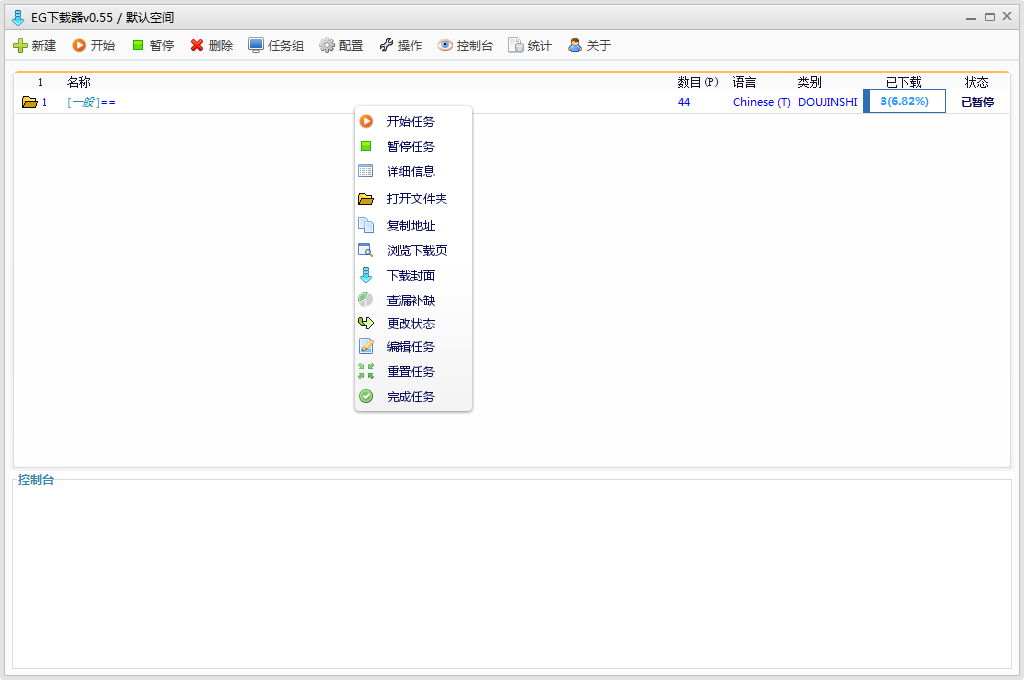
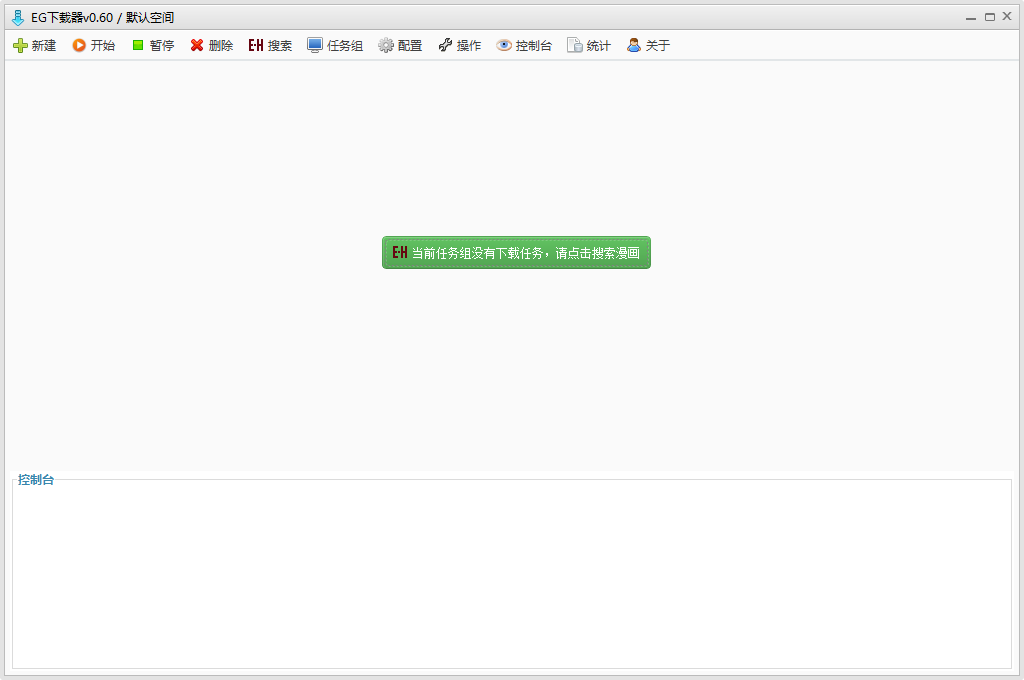
调整

diff --git a/script/search.js b/script/search.js
@@ -9,7 +9,7 @@ var mark = {//标志符
 	date : ['white-space:nowrap">', '</td><td class="itd" onmouseover'],//发布时间
 	type : ['.png" alt="', '" class="ic" />'],//类型
 	btUrl : ['</tr>', "return popUp('", "', 610, 590)"],//bt地址
-	uploader : ['http://exhentai.org/uploader', '/', '">']//上传者
+	uploader : ['http://exhentai.org/uploader', '>', '</a>']//上传者
 };
 
 function parseJsonArray(array){
@@ -89,7 +89,7 @@ function parse(source){
 			}
 			//上传者
 			var uploaderTemp = subFromSource(source, mark.uploader[0]);
-			task.uploader = unescape(interceptFromSource(uploaderTemp, mark.uploader[1], mark.uploader[2]));
+			task.uploader = interceptFromSource(uploaderTemp, mark.uploader[1], mark.uploader[2]);
 			tasks.push(task);
 			source = subFromSource(source, prefix);
 			i ++;

diff --git a/src/org/arong/egdownloader/ui/ComponentConst.java b/src/org/arong/egdownloader/ui/ComponentConst.java
@@ -1,9 +1,12 @@
 package org.arong.egdownloader.ui;
 
+import java.io.FileNotFoundException;
+import java.io.FileReader;
 import java.io.IOException;
 import java.io.InputStream;
 import java.util.HashMap;
 import java.util.Map;
+import java.util.Properties;
 
 import org.arong.egdownloader.spider.WebClient;
 import org.arong.egdownloader.ui.window.EgDownloaderWindow;
@@ -60,11 +63,11 @@ public final class ComponentConst {
 	
 	public static String countHtml;
 	
-	public final static String SCRIPT_CREATE_URL = "https://raw.githubusercontent.com/dipoo/egdownloader/master/script/createTask.js";
-	public final static String SCRIPT_COLLECT_URL = "https://raw.githubusercontent.com/dipoo/egdownloader/master/script/collectPicture.js";
-	public final static String SCRIPT_DOWNLOAD_URL = "https://raw.githubusercontent.com/dipoo/egdownloader/master/script/download.js";
-	public final static String SCRIPT_SEARCH_URL = "https://raw.githubusercontent.com/dipoo/egdownloader/master/script/search.js";
-	public final static String SCRIPT_VERSION_URL = "https://raw.githubusercontent.com/dipoo/egdownloader/master/script/version";
+	public static String SCRIPT_CREATE_URL = "http://raw.githubusercontent.com/dipoo/egdownloader/master/script/createTask.js";
+	public static String SCRIPT_COLLECT_URL = "http://raw.githubusercontent.com/dipoo/egdownloader/master/script/collectPicture.js";
+	public static String SCRIPT_DOWNLOAD_URL = "http://raw.githubusercontent.com/dipoo/egdownloader/master/script/download.js";
+	public static String SCRIPT_SEARCH_URL = "http://raw.githubusercontent.com/dipoo/egdownloader/master/script/search.js";
+	public static String SCRIPT_VERSION_URL = "http://raw.githubusercontent.com/dipoo/egdownloader/master/script/version";
 	
 	static{
 		InputStream s = null;
@@ -95,6 +98,30 @@ public final class ComponentConst {
 			}
 			if(countHtml == null)
 				countHtml = "没有找到" + RESOURCES_PATH + "count.html文件";
+		}
+		
+		Properties scriptProp = new Properties();
+		try {
+			scriptProp.load(new FileReader("script/version.properties"));
+			if(scriptProp.get("script_create_url") != null){
+				SCRIPT_CREATE_URL = scriptProp.get("script_create_url").toString();
+			}
+			if(scriptProp.get("script_collect_url") != null){
+				SCRIPT_COLLECT_URL = scriptProp.get("script_collect_url").toString();
+			}
+			if(scriptProp.get("script_download_url") != null){
+				SCRIPT_DOWNLOAD_URL = scriptProp.get("script_download_url").toString();
+			}
+			if(scriptProp.get("script_search_url") != null){
+				SCRIPT_SEARCH_URL = scriptProp.get("script_search_url").toString();
+			}
+			if(scriptProp.get("script_version_url") != null){
+				SCRIPT_VERSION_URL = scriptProp.get("script_version_url").toString();
+			}
+		} catch (FileNotFoundException e) {
+			
+		} catch (IOException e) {
+			
 		}
 		
 		SKIN_ICON.put("add", "_add.png");

diff --git a/src/org/arong/egdownloader/ui/window/SearchComicWindow.java b/src/org/arong/egdownloader/ui/window/SearchComicWindow.java
@@ -102,16 +102,16 @@ public class SearchComicWindow extends JFrame {
 		optionPanel = new JPanel(new FlowLayout(FlowLayout.LEFT));
 		optionPanel.setBorder(BorderFactory.createTitledBorder(BorderFactory.createLineBorder(new Color(Integer.parseInt("bababa", 16)), 1), "条件过滤"));
 		optionPanel.setBounds(6, 55, ComponentConst.CLIENT_WIDTH - 23, 65);
-		JCheckBox c1 = new AJCheckBox("DOUJINSHI", Color.BLUE, font, false);
-		JCheckBox c2 = new AJCheckBox("MANGA", Color.BLUE, font, false);
-		JCheckBox c3 = new AJCheckBox("ARTISTCG", Color.BLUE, font, false);
-		JCheckBox c4 = new AJCheckBox("GAMECG", Color.BLUE, font, false);
-		JCheckBox c5 = new AJCheckBox("WESTERN", Color.BLUE, font, false);
+		JCheckBox c1 = new AJCheckBox("DOUJINSHI", Color.BLUE, font, true);
+		JCheckBox c2 = new AJCheckBox("MANGA", Color.BLUE, font, true);
+		JCheckBox c3 = new AJCheckBox("ARTISTCG", Color.BLUE, font, true);
+		JCheckBox c4 = new AJCheckBox("GAMECG", Color.BLUE, font, true);
+		JCheckBox c5 = new AJCheckBox("WESTERN", Color.BLUE, font, true);
 		JCheckBox c6 = new AJCheckBox("NON-H", Color.BLUE, font, true);
-		JCheckBox c7 = new AJCheckBox("IMAGESET", Color.BLUE, font, false);
-		JCheckBox c8 = new AJCheckBox("COSPLAY", Color.BLUE, font, false);
-		JCheckBox c9 = new AJCheckBox("ASIANPORN", Color.BLUE, font, false);
-		JCheckBox c10 = new AJCheckBox("MISC", Color.BLUE, font, false);
+		JCheckBox c7 = new AJCheckBox("IMAGESET", Color.BLUE, font, true);
+		JCheckBox c8 = new AJCheckBox("COSPLAY", Color.BLUE, font, true);
+		JCheckBox c9 = new AJCheckBox("ASIANPORN", Color.BLUE, font, true);
+		JCheckBox c10 = new AJCheckBox("MISC", Color.BLUE, font, true);
 		final JComboBox language = new JComboBox(new String[]{"全部", "中文", "英文", "韩文", "法文", "西班牙"});
 		language.setSelectedIndex(1);
 		language.addActionListener(new ActionListener() {

diff --git a/src/org/arong/egdownloader/ui/window/InitWindow.java b/src/org/arong/egdownloader/ui/window/InitWindow.java
@@ -21,7 +21,6 @@ import org.arong.egdownloader.model.Picture;
 import org.arong.egdownloader.model.Setting;
 import org.arong.egdownloader.model.Task;
 import org.arong.egdownloader.spider.WebClient;
-import org.arong.egdownloader.spider.WebClientException;
 import org.arong.egdownloader.ui.ComponentConst;
 import org.arong.egdownloader.ui.swing.AJLabel;
 import org.arong.egdownloader.ui.table.TaskingTable;
@@ -107,9 +106,9 @@ public class InitWindow extends JWindow {
 		textLabel.setText(Version.NAME + "-检测远程脚本");
 		//检测脚本是否发生变化
 		try {
-			scriptVersion = WebClient.postRequest(ComponentConst.SCRIPT_VERSION_URL);
+			scriptVersion = WebClient.getRequestUseJava(ComponentConst.SCRIPT_VERSION_URL, null);
 			String currentVersion = FileUtil.getTextFromReader(new FileReader("script/version"));
-			if(!currentVersion.equals(scriptVersion)){
+			if(scriptVersion != null && !currentVersion.equals(scriptVersion)){
 				int r = JOptionPane.showConfirmDialog(null, "远程脚本发生变化，是否同步？");
 				this.toFront();
 				if(r == JOptionPane.YES_OPTION){
@@ -120,8 +119,6 @@ public class InitWindow extends JWindow {
 			}else{
 				startMain();
 			}
-		}catch (WebClientException e) {
-			startMain();
 		}catch (SocketTimeoutException e) {
 			startMain();
 		}catch (ConnectTimeoutException e) {

diff --git a/src/org/arong/egdownloader/ui/work/SearchComicWorker.java b/src/org/arong/egdownloader/ui/work/SearchComicWorker.java
@@ -33,14 +33,14 @@ public class SearchComicWorker extends SwingWorker<Void, Void>{
 		try {
 			String source = WebClient.postRequestWithCookie(this.url, mainWindow.setting.getCookieInfo());
 			String[] result = ScriptParser.search(source, mainWindow.setting);
-			String json = result[1];
-			if(result.length > 2){
-				for(int i = 2; i < result.length; i ++){
-					json += "###" + result[i];
+			if(result != null){
+				String json = result[1];
+				if(result.length > 2){
+					for(int i = 2; i < result.length; i ++){
+						json += "###" + result[i];
+					}
 				}
-			}
-			List<SearchTask> searchTasks = JsonUtil.jsonArray2beanList(SearchTask.class, json);
-			if(!"null".equals(result[1])){
+				List<SearchTask> searchTasks = JsonUtil.jsonArray2beanList(SearchTask.class, json);
 				String totalTasks = result[0].split(",")[0];
 				//总页数
 				String totalPage = result[0].split(",")[1];//Spider.getTextFromSource(source, "+Math.min(", ", Math.max(");
@@ -56,7 +56,6 @@ public class SearchComicWorker extends SwingWorker<Void, Void>{
 				}
 				searchComicWindow.datas.get(searchComicWindow.key).put((currentPage) + "", searchTasks);
 				searchComicWindow.showResult(totalPage, currentPage);
-				
 			}else{
 				searchComicWindow.totalLabel.setText("搜索不到相关内容");
 				searchComicWindow.hideLoading();

diff --git a/src/org/arong/egdownloader/ui/table/SearchTasksTable.java b/src/org/arong/egdownloader/ui/table/SearchTasksTable.java
@@ -92,7 +92,7 @@ public class SearchTasksTable extends JTable {
 				if(column == 0){//类型
 					tc.setPreferredWidth(105);
 					tc.setMaxWidth(105);
-					JLabel l = new AJLabel("", tasks.get(row).getType() == null ? "" : (tasks.get(row).getType() + ".png"), c, JLabel.LEFT);
+					JLabel l = new AJLabel("", tasks.get(row).getType() == null ? "" : (tasks.get(row).getType().toLowerCase() + ".png"), c, JLabel.LEFT);
 					return l;
 				}else if(column == 1){//名称
 					tc.setPreferredWidth(700);
@@ -111,7 +111,7 @@ public class SearchTasksTable extends JTable {
 				}else if(column == 2){//上传者
 					tc.setPreferredWidth(100);
 					tc.setMaxWidth(150);
-					final JLabel l = new AJLabel(value.toString(), c, font, JLabel.LEFT);
+					JLabel l = new AJLabel(value.toString(), c, font, JLabel.LEFT);
 					l.setForeground(uploaderColor);
 					l.setToolTipText("点击搜索该上传者的上传的漫画");
 					return l;

diff --git a/src/org/arong/egdownloader/ui/work/UpdateScriptWorker.java b/src/org/arong/egdownloader/ui/work/UpdateScriptWorker.java
@@ -78,7 +78,7 @@ public class UpdateScriptWorker extends SwingWorker<Void, Void>{
 				}catch (Exception e) {
 					
 				}
-				JOptionPane.showMessageDialog(null, "同步完成");
+				JOptionPane.showMessageDialog(mainWindow.settingWindow, "同步完成");
 			}
 		}catch (ConnectTimeoutException e) {
 			JOptionPane.showMessageDialog(null, "更新脚本出错，建议手动更新");
@@ -86,6 +86,11 @@ public class UpdateScriptWorker extends SwingWorker<Void, Void>{
 				initWindow.startMain();
 			}
 		}catch (SocketTimeoutException e) {
+			JOptionPane.showMessageDialog(null, "更新脚本出错，建议手动更新");
+			if(initWindow != null){
+				initWindow.startMain();
+			}
+		}catch (Exception e) {
 			JOptionPane.showMessageDialog(null, "更新脚本出错，建议手动更新");
 			if(initWindow != null){
 				initWindow.startMain();

diff --git a/src/org/arong/egdownloader/model/ScriptParser.java b/src/org/arong/egdownloader/model/ScriptParser.java
@@ -263,7 +263,7 @@ public class ScriptParser {
 		Map<String, Object> param = new HashMap<String, Object>();
 		param.put("htmlSource", source);
 		Object result = parseJsScript(param, getSearchScriptFile(setting.getSearchScriptPath()));
-		return result.toString().split("\\###");
+		return result == null ? null : result.toString().split("\\###");
 	}
 	
 	public static void testScript(String url, JTextArea resultArea, Setting setting, boolean create, boolean collect, boolean download){

diff --git a/src/org/arong/egdownloader/ui/window/SettingWindow.java b/src/org/arong/egdownloader/ui/window/SettingWindow.java
@@ -96,6 +96,7 @@ public class SettingWindow extends JFrame{
 			
 			settingTabPanel.setBounds(20, 0, 780, 450);
 			
+			
 			/* 基本配置 */
 			basicPanel = new JPanel();
 			basicPanel.setLayout(null);  

diff --git a/README.md b/README.md
@@ -2,6 +2,6 @@
 ============
 适合里站，表站未知（访问不了~囧）。
 
-百度网盘：[egdownloader0.55.exe](http://pan.baidu.com/s/1sjmatxr) 下载。
+百度网盘：[egdownloader0.60.exe](http://pan.baidu.com/s/1i3ioXmt) 下载。
 
 ![结构](./ui.png)
